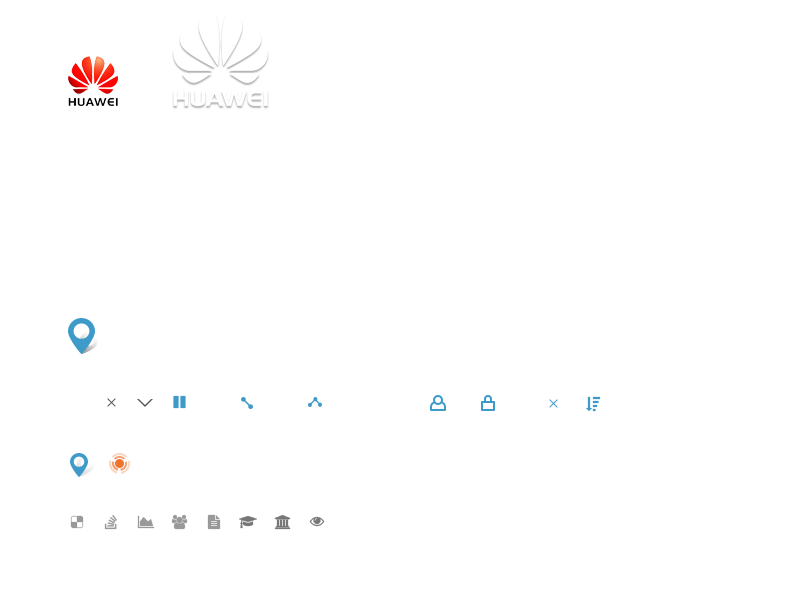
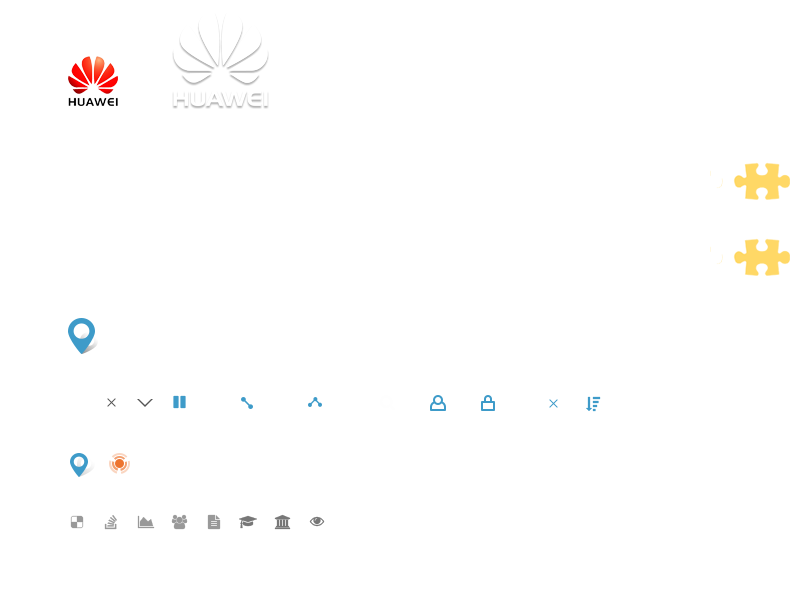
demo首页添加6个圈

Changed region(s): [[0.9062, 0.39, 1.0, 0.48], [0.9062, 0.27, 1.0, 0.33]]

diff --git a/src/systems/demo/components/IndexCenterZone.js b/src/systems/demo/components/IndexCenterZone.js
@@ -1,0 +1,83 @@
+/**
+ * Created by BoGao on 2017/7/15.
+ */
+import React from 'react';
+import { Link } from 'dva/router';
+import classnames from 'classnames';
+import { FormattedMessage as FM } from 'react-intl';
+import styles from './IndexCenterZone.less';
+
+export default class IndexCenterZone extends React.PureComponent {
+  render() {
+    return (
+      <div className={styles.bigNavi}>
+        <div className={styles.inner}>
+          <Link to="/uniSearch/-/0/20" href="/uniSearch/-/0/20">
+            <div className={styles.blockItem}>
+              <div className={styles.outerBackground}>
+                <span alt="" className={classnames('icon', styles.expertSearch)} />
+              </div>
+              <div className={styles.iconDesc}>
+                <FM id="index.title" defaultMessage="Expert Search" />
+              </div>
+            </div>
+          </Link>
+          <Link to="/expert-map" href="/expert-map">
+            <div className={styles.blockItem}>
+              <div className={styles.outerBackground}>
+                <span alt="" className={classnames('icon', styles.maps)} />
+              </div>
+              <div className={styles.iconDesc}>
+                <FM id="com.searchTypeWidget.label.ExpertMap" defaultMessage="Maps" />
+              </div>
+            </div>
+          </Link>
+          <Link to="/relation-graph-page" href="/relation-graph-page">
+            <div className={styles.blockItem}>
+              <div className={styles.outerBackground}>
+                <span alt="" className={classnames('icon', styles.relations)} />
+              </div>
+              <div className={styles.iconDesc}>
+                <FM id="com.searchTypeWidget.label.Relation" defaultMessage="Relations" />
+              </div>
+            </div>
+          </Link>
+          <Link to="/trend" href="/trend">
+            <div className={styles.blockItem}>
+              <div className={styles.outerBackground}>
+                <span alt="" className={classnames('icon', styles.topicTrend)} />
+              </div>
+              <div className={styles.iconDesc}>
+                <FM id="com.searchTypeWidget.label.TrendPrediction" defaultMessage="Topic Trend" />
+              </div>
+            </div>
+          </Link>
+
+          <Link to="/cross/index" href="/cross/index">
+            <div className={styles.blockItem}>
+              <div className={styles.outerBackground}>
+                <span alt="" className={classnames('icon', styles.crossSearch)} />
+              </div>
+              <div className={styles.iconDesc}>
+                <FM id="com.searchTypeWidget.label.crossSearch"
+                    defaultMessage="Cross" />
+              </div>
+            </div>
+          </Link>
+          <a href="https://ccf-beta.aminer.cn" target="_blank">
+            <div className={styles.blockItem}>
+              <div className={classnames(styles.clearMarginRight, styles.outerBackground)}>
+                <span alt="" className={classnames('icon', styles.seminar)} />
+              </div>
+              <div className={styles.iconDesc}>
+                <FM id="com.searchTypeWidget.label.seminar"
+                defaultMessage="Seminar" />
+              </div>
+            </div>
+          </a>
+        </div>
+
+      </div>
+    );
+  }
+}

diff --git a/src/systems/demo/components/IndexCenterZone.less b/src/systems/demo/components/IndexCenterZone.less
@@ -1,0 +1,56 @@
+/**
+ * Created by BoGao on 2017/7/15.
+ */
+@import "../../../themes/vars.less";
+
+:global {
+  .icon {
+    background-image: url("/sys/huawei/icon.png");
+  }
+}
+
+.bigNavi {
+  display: flex; flex-direction: row; justify-content: center; flex-wrap: wrap; margin-top: 55px;
+  .inner {
+    display: flex; flex-direction: row; flex-wrap: wrap; justify-content: center;
+    .outerBackground {
+      width: 98px; height: 98px; border-radius: 49px;
+      padding: 0px 10px; margin-right: 80px;
+      background-color: rgba(0, 0, 0, 0.4);
+      box-shadow: 0px 2px 2px rgba(0, 0, 0, 0.3);
+      span.expertSearch { background-position: -619px -133px; }
+      span.relations { background-position: -107px -133px; }
+      span.maps { background-position: -207px -133px; }
+      span.kgGraph { background-position: -307px -133px; }
+      span.topicTrend { background-position: -407px -133px; }
+      span.crossSearch { background-position: -710px -133px; }
+      span.seminar { background-position: -511px -134px; }
+    }
+    .outerBackground > span {
+      width: 80px; height: 84px;
+      z-index: 10000; border: none;
+      display: flex;
+    }
+    .outerBackground:hover {
+      background-color: rgba(0, 0, 0, 0.6);
+      span.expertSearch { background-position: -619px -208px; }
+      span.relations { background-position: -105px -213px; }
+      span.maps { background-position: -207px -206px; }
+      span.kgGraph { background-position: -307px -209px; }
+      span.topicTrend { background-position: -407px -209px; }
+      span.crossSearch { background-position: -710px -209px; }
+      span.seminar { background-position: -511px -209px; }
+    }
+    // 使用last-child没起作用？？？？
+    .clearMarginRight {margin-right: 0px!important; }
+
+    .iconDesc {
+      width: 98px;
+      font-size: 16px;
+      //color: #ffffff;
+      margin-top: 10px;
+      padding: 0px 10px;
+      text-align: center;
+    }
+  }
+}

diff --git a/src/themes/demo/theme-demo.js b/src/themes/demo/theme-demo.js
@@ -8,6 +8,7 @@ import { sysconfig } from 'systems';
 import * as hole from 'utils/hole';
 import { FormattedMessage as FM } from 'react-intl';
 import { IndexHotLinks } from 'components/widgets';
+import { IndexCenterZone } from '../../systems/demo/components';
 import styles from './theme-demo.less';
 // import * as Const from './const-acmfellow';
 
@@ -54,6 +55,8 @@ module.exports = {
       </h1>
     </div>,
   ],
+
+  index_centerZone: [hole.DEFAULT_PLACEHOLDER, <IndexCenterZone key={0} />],
 
   // Expert Page
 

diff --git a/src/locales/zh.js b/src/locales/zh.js
@@ -75,6 +75,8 @@ export default {
   'com.searchTypeWidget.label.TrendPrediction': '技术趋势',
   'com.searchTypeWidget.label.ExpertTrajectory': 'DEV:专家迁移',
   'com.searchTypeWidget.label.ExpertBase': '我的专家库',
+  'com.searchTypeWidget.label.crossSearch': '交叉搜索',
+  'com.searchTypeWidget.label.seminar': '学术活动',
 
   'com.searchTypeWidget.label.ACM_ExpertSearch': '全球专家',
   'com.searchTypeWidget.label.ACMFellowExpertBase': 'ACM Fellow',

diff --git a/src/locales/en.js b/src/locales/en.js
@@ -75,6 +75,8 @@ export default {
   'com.searchTypeWidget.label.TrendPrediction': 'Topic Trend',
   'com.searchTypeWidget.label.ExpertTrajectory': 'DEV:Expert Trajectory',
   'com.searchTypeWidget.label.ExpertBase': 'My Experts',
+  'com.searchTypeWidget.label.crossSearch': 'Cross',
+  'com.searchTypeWidget.label.seminar': 'Seminar',
 
   'com.searchTypeWidget.label.ACM_ExpertSearch': 'Global Experts',
   'com.searchTypeWidget.label.ACMFellowExpertBase': 'ACM Fellow',

diff --git a/src/routes/search/SearchComponent.js b/src/routes/search/SearchComponent.js
@@ -160,7 +160,9 @@ export default class SearchComponent extends Component {
   doSearchUseProps = () => {
     const { query, offset, pagination, filters, sortKey } = this.props.search;
     const { pageSize } = pagination;
-    this.doSearch(query, offset, pageSize, filters, sortKey, true);
+    if (query !== '-') {
+      this.doSearch(query, offset, pageSize, filters, sortKey, true);
+    }
   };
 
   doTranslateSearch = (useTranslate) => {

diff --git a/src/components/search/KgSearchBox.js b/src/components/search/KgSearchBox.js
@@ -44,7 +44,7 @@ const getSuggestions = (value) => {
   const inputLength = inputValue.length;
 
   return inputLength === 0 ? [] : languages.filter(lang =>
-    lang.name.toLowerCase().slice(0, inputLength) === inputValue);
+  lang.name.toLowerCase().slice(0, inputLength) === inputValue);
 };
 
 // When suggestion is clicked, Autosuggest needs to populate the input

diff --git a/src/systems/demo/components/index.js b/src/systems/demo/components/index.js
@@ -1,0 +1,3 @@
+import IndexCenterZone from './IndexCenterZone';
+
+module.exports = { IndexCenterZone };
